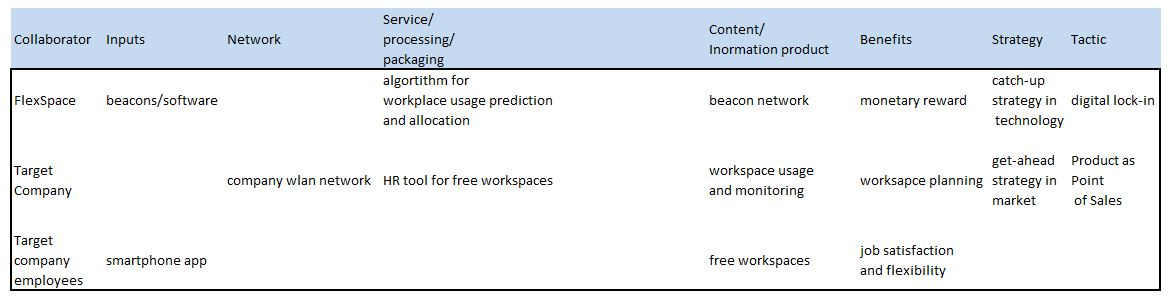
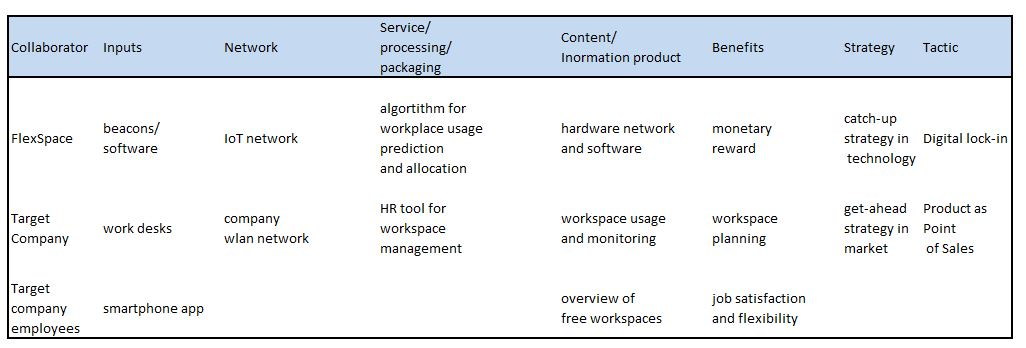
use case chan

diff --git a/Seminar-Template/Talk11/Seminar-Arbeit.tex b/Seminar-Template/Talk11/Seminar-Arbeit.tex
@@ -399,6 +399,8 @@
 
 	\subsection{Three-dimensional collaborator Model (Chan, 2015)}
 
+	When we apply Chan's framework to our fictional company, figure \ref{use case chan} shows the possible result. The emphasis on the mutual benefits for all collaborators becomes evident. Thanks to the beacons at each desk where the employees log themselves in, the target company now knows about the used capacity of workplaces. They can which employees come on premise to work and who rather works from home. The software provided can measure changes in utilization over the year. Predictions can be made, flexible allocations can be made to adjust the varying need of workplaces over the year. Employees profit by being free to choose where they want to work and never running into an occupied workplace.
+
 	\begin{figure}[ht]
 	    \begin{center}
 	    \includegraphics[scale=0.55]{Talk11/chanexampleusecase.jpg}
